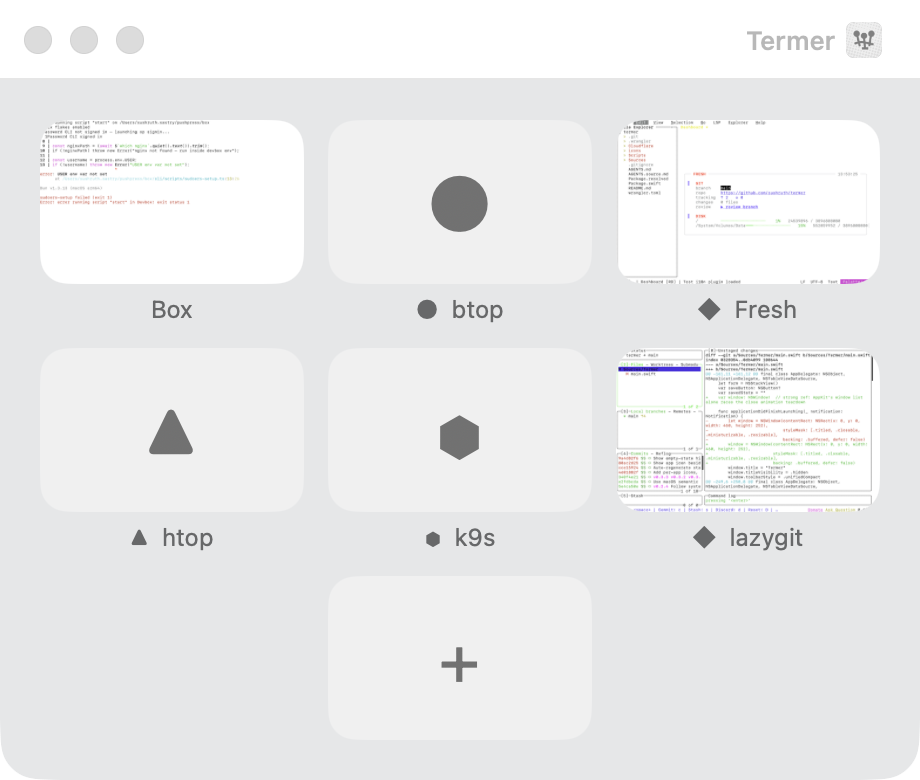
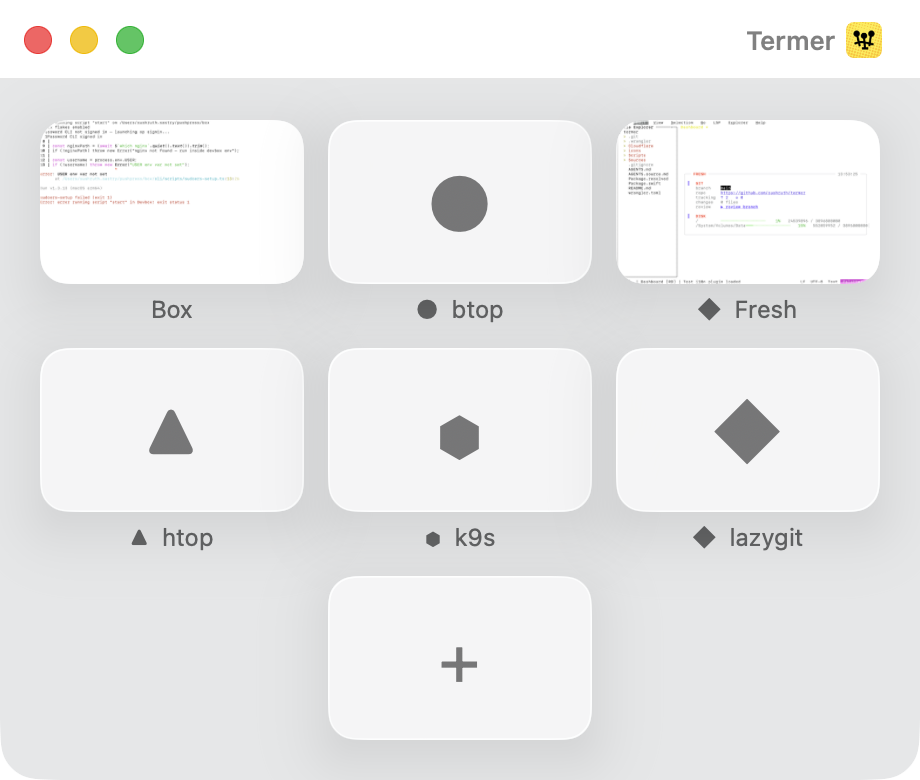
Shrink web page and use active-window screenshot

Changed region(s): [[0.6696, 0.4308, 0.9435, 0.6769], [0.7913, 0.0308, 0.9739, 0.0923], [0.0304, 0.0308, 0.1522, 0.0923]]

diff --git a/Cloudflare/install-worker.js b/Cloudflare/install-worker.js
@@ -33,14 +33,14 @@ async function handle(request) {
 <link rel="icon" href="https://raw.githubusercontent.com/usually-frustrated/termer/main/icons/web/favicon.ico">
 <link rel="apple-touch-icon" href="https://raw.githubusercontent.com/usually-frustrated/termer/main/icons/web/apple-touch-icon.png">
 <style>
-  :root { color-scheme: light dark; font: 16px/1.45 -apple-system, BlinkMacSystemFont, "SF Pro Text", sans-serif; }
+  :root { color-scheme: light dark; font: 14px/1.45 -apple-system, BlinkMacSystemFont, "SF Pro Text", sans-serif; }
   body { margin: 0; min-height: 100vh; display: grid; place-items: center; background: Canvas; color: CanvasText; }
-  main { width: min(560px, calc(100vw - 48px)); }
-  .logo { width: 72px; height: 72px; border-radius: 16px; display: block; margin: 0 0 18px; }
-  h1 { font-size: 40px; letter-spacing: 0; margin: 0 0 10px; }
-  p { margin: 0 0 22px; color: color-mix(in srgb, CanvasText 68%, Canvas); }
-  .shot { display: block; max-width: 100%; border-radius: 10px; border: 1px solid color-mix(in srgb, CanvasText 14%, Canvas); margin: 0 0 22px; }
-  code { display: block; padding: 14px 16px; border: 1px solid color-mix(in srgb, CanvasText 14%, Canvas); border-radius: 8px; overflow-x: auto; }
+  main { width: min(340px, calc(100vw - 40px)); }
+  .logo { width: 44px; height: 44px; border-radius: 10px; display: block; margin: 0 0 12px; }
+  h1 { font-size: 24px; letter-spacing: 0; margin: 0 0 6px; }
+  p { margin: 0 0 14px; color: color-mix(in srgb, CanvasText 68%, Canvas); }
+  .shot { display: block; max-width: 100%; border-radius: 8px; border: 1px solid color-mix(in srgb, CanvasText 14%, Canvas); margin: 0 0 14px; }
+  code { display: block; padding: 10px 12px; font-size: 12px; border: 1px solid color-mix(in srgb, CanvasText 14%, Canvas); border-radius: 8px; overflow-x: auto; }
   a { color: LinkText; }
 </style>
 <main>